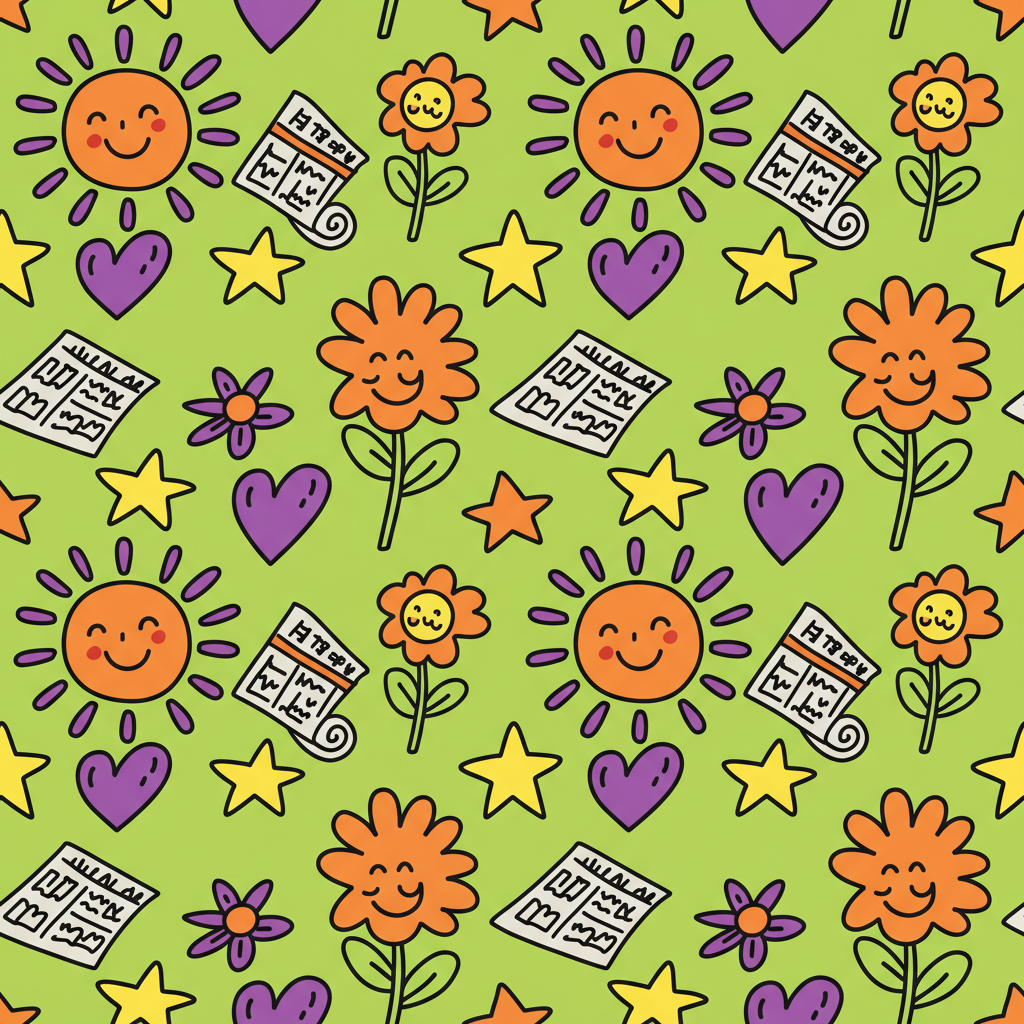
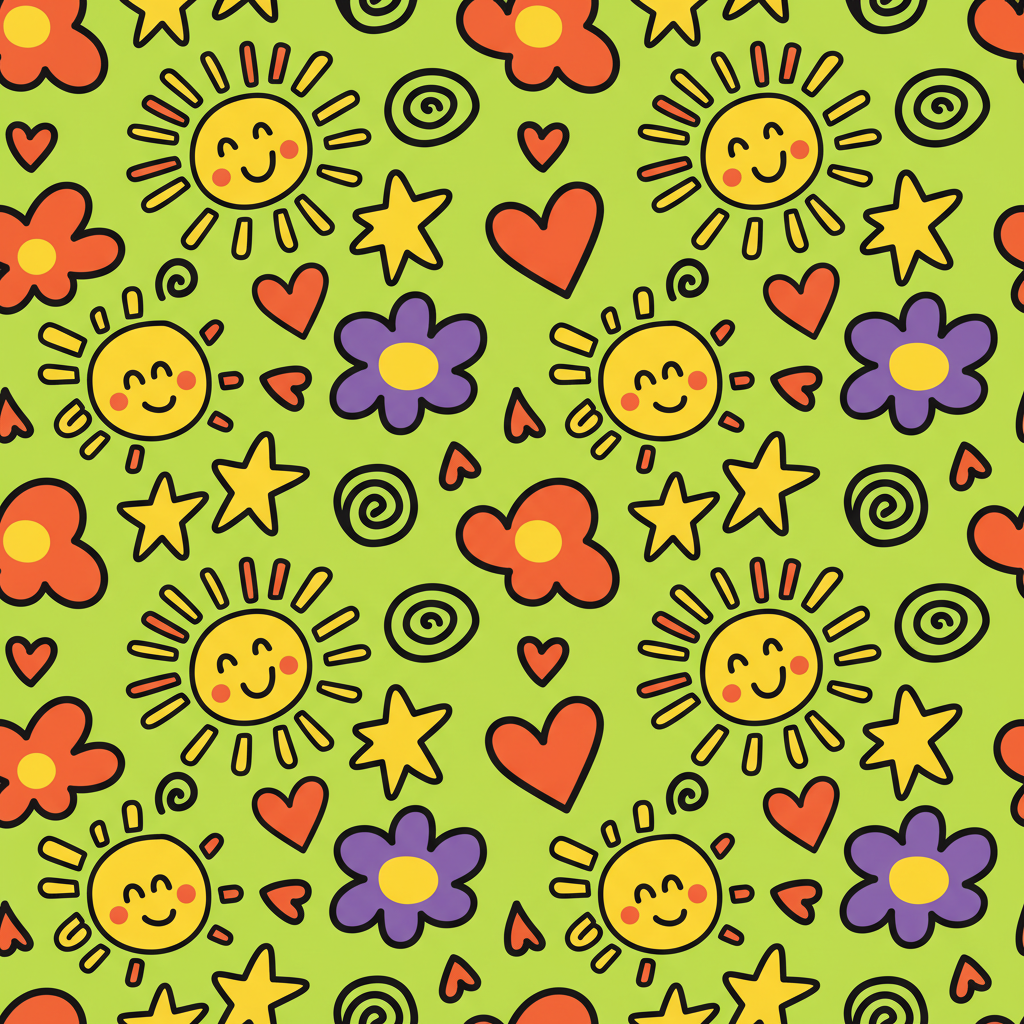
Fix iOS nav bar, regenerate hero image without text
- Header now uses env(safe-area-inset-top) so it sits below the iOS
  status bar / Dynamic Island on iPhone correctly
- Nav buttons: higher contrast inactive state, -webkit-tap-highlight removed,
  tighter gap so it doesn't crowd on small screens
- Regen hero.png: strictly no-text doodle pattern (suns, flowers, hearts)
  to replace previous version that had watermark-like text baked in
- Bottom safe area applied to main content and reader sheet on mobile

diff --git a/src/index.ts b/src/index.ts
@@ -753,7 +753,8 @@ function renderHTML(feedItems: Item[], todayItems: Item[], activeTab: string, ac
     /* ── Header ── */
     .header {
       background: var(--black);
-      padding: 14px 20px;
+      /* iOS safe area: pad top for status bar under notch/dynamic island */
+      padding: calc(14px + env(safe-area-inset-top)) 20px 14px;
       display: flex;
       align-items: center;
       justify-content: space-between;
@@ -768,38 +769,44 @@ function renderHTML(feedItems: Item[], todayItems: Item[], activeTab: string, ac
       align-items: center;
       gap: 10px;
       text-decoration: none;
+      min-width: 0;
     }
     .logo img {
-      width: 36px;
-      height: 36px;
+      width: 34px;
+      height: 34px;
       border-radius: 8px;
       flex-shrink: 0;
     }
     .logo-text {
       font-family: 'Fraunces', Georgia, serif;
-      font-size: 20px;
+      font-size: 19px;
       font-weight: 900;
       color: var(--lime);
       letter-spacing: -0.3px;
+      white-space: nowrap;
+      overflow: hidden;
+      text-overflow: ellipsis;
     }
 
     .nav {
       display: flex;
-      gap: 6px;
+      gap: 4px;
+      flex-shrink: 0;
     }
     .nav-btn {
-      padding: 8px 16px;
+      padding: 8px 18px;
       border-radius: 999px;
-      border: 2px solid transparent;
+      border: none;
       cursor: pointer;
       font-family: 'DM Sans', sans-serif;
       font-weight: 600;
       font-size: 14px;
       text-decoration: none;
-      color: #aaa;
+      color: rgba(255,255,255,0.55);
       background: transparent;
       transition: color 0.15s, background 0.15s;
       white-space: nowrap;
+      -webkit-tap-highlight-color: transparent;
     }
     .nav-btn:hover { color: var(--white); }
     .nav-btn.active {
@@ -1253,14 +1260,15 @@ function renderHTML(feedItems: Item[], todayItems: Item[], activeTab: string, ac
 
     /* ── Responsive ── */
     @media (max-width: 640px) {
-      .header { padding: 12px 16px; }
-      .logo-text { font-size: 17px; }
-      .nav-btn { padding: 7px 12px; font-size: 13px; }
-      .main { padding: 20px 16px 48px; }
+      /* On mobile, header safe-area is already handled by the base rule above */
+      .header { padding-left: 16px; padding-right: 16px; padding-bottom: 12px; }
+      .logo-text { font-size: 16px; }
+      .nav-btn { padding: 8px 14px; font-size: 13px; }
+      .main { padding: 20px 16px calc(48px + env(safe-area-inset-bottom)); }
       .hero-img { height: 200px; }
       .hero-body { padding: 20px 18px 16px; }
       .hero-foot { flex-direction: column; align-items: flex-start; gap: 10px; }
-      .reader-content { padding: 20px 18px 32px; }
+      .reader-content { padding: 20px 18px calc(32px + env(safe-area-inset-bottom)); }
       .reader-content h1 { font-size: 22px; }
       .reader-content p { font-size: 16px; }
     }
